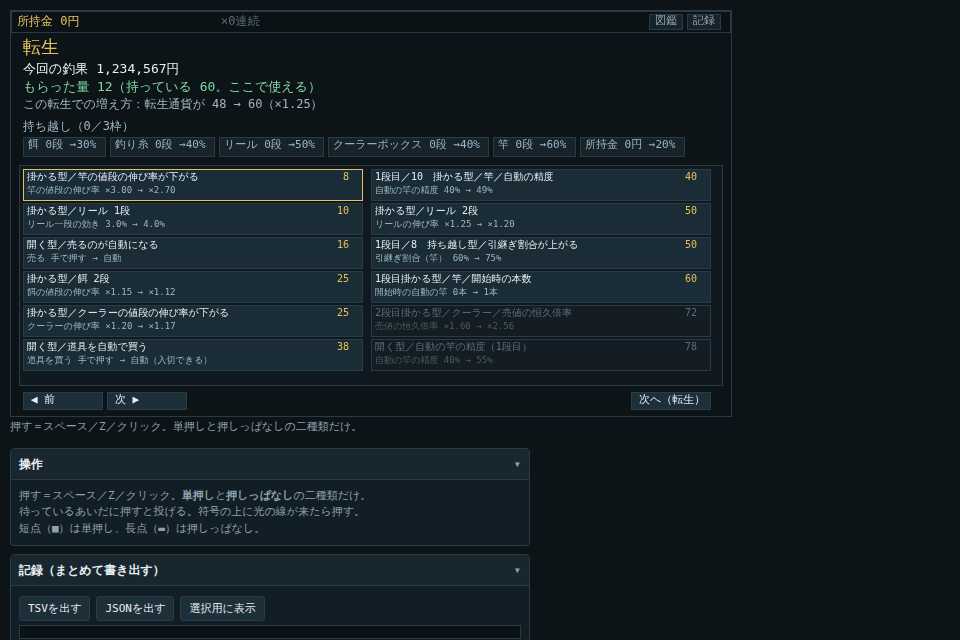
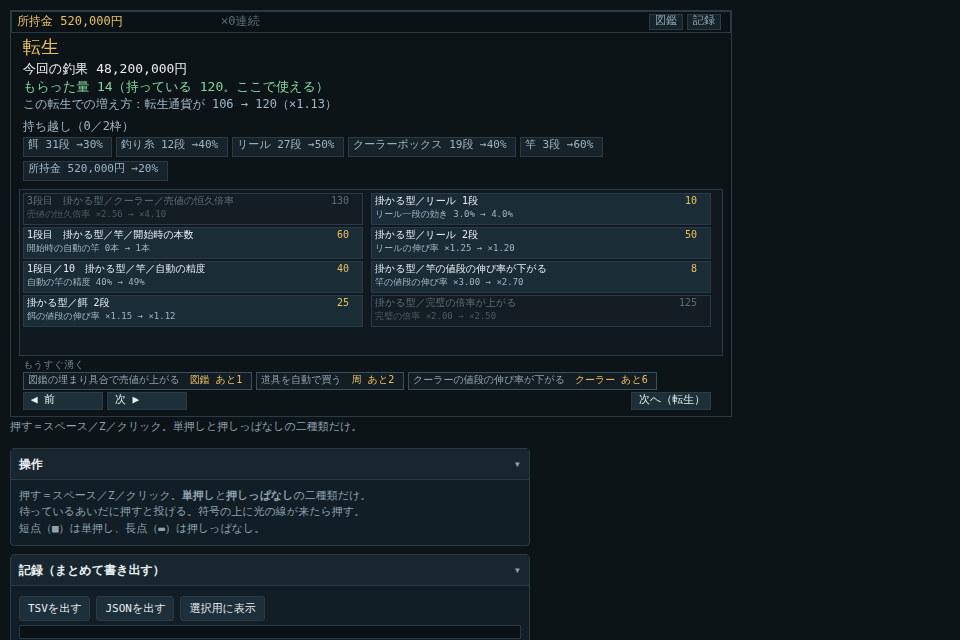
遺産をもとにパークを作り直す（湧く条件・並び・予告）
13節で「相場と食い違っている」と出したところを、相場のほうに合わせた。

- パークが値段だけで開くのをやめた。数え上げの軸で湧く（周・道具の段数・
  自動の竿の本数・図鑑の種類・通しの最高連続・通しの超大物）。相場は
  Cookie Clicker の「所持数で段階的に湧く」で、「25個買え」は上限ではなく
  次の褒美の位置。図鑑という軸が在るのに褒美が繋がっていなかった
- 「値段の順＝取るべき順」をやめた。並びは 湧いている → まだ湧いていない
  → 取り切った。昨日足した金色の目印は外した。相場では Optimization
  Problems が High-Value、Following Instructions は「内容ではない」
- 一覧の下に「もうすぐ湧く」を常に出す。予告が二ページ目に隠れていたら
  予告ではない
- 持ち越しの帯が画面の端で切れていたのを折り返すようにした

梯子の一段目を5に置いたら初回の転生で0個になり friction-check が落ちた。
Cookie Clicker の Tier 1 は「Own 1」で、読み違えていた。1に直した。

9章の決を二つ変えることになるが、仕様書はまだ直していない（open.md 14節に案）。

Claude-Session: https://claude.ai/code/session_01FWfDWPPf3eFfUKrHUiB2gN

diff --git a/decisions.md b/decisions.md
@@ -903,3 +903,26 @@
 - 理由：（2 上位の決定から導ける）9章「一覧そのものが『次に取るもの』を助言する」。
   値段の安い順＝取るべき順、と決めてあるのに、**目印が無かった**
 - 変更：安い。枠の色一つ
+
+### パークは値段だけで開かない。数え上げの軸で湧く
+- 画面：**転生の画面に「図鑑 あと1」「周 あと2」と出る行がある。**
+  湧いていないパークは暗く、値段の代わりに「あと◯」が出る
+- 理由：（1 調べれば決まる）Cookie Clicker はアップグレードが「所持数」で湧く
+  （1/5/25/50/100/150/200）。**「25個買え」は上限ではなく、次の褒美の位置として働く**
+  （`gamedev/templates/sheets/genre/incremental.md` 00「新しいものが順に出てくるか」）。
+  **図鑑という数え上げの軸が在るのに、褒美が一つも繋がっていなかった**
+- 変更：**しきい値は安い（つまみ）。軸の割り当ては高い。**逆算のときに動く
+
+### 取るべき順を、一覧の側で教えない
+- 画面：**金色の「次はこれ」の枠が消えた。**並びは 湧いている → まだ湧いていない → 取り切った
+- 理由：（1 調べれば決まる）正典8本の共通項では **Optimization Problems が High-Value**、
+  **Following Instructions（攻略どおりの一本道）は「内容ではない」**と名指しされている
+  （The Paper Pilot, Guide to Incrementals）。
+  **9章の「値段の順＝取るべき順」は、選ぶことを設計から取り除いていた**
+- 変更：安い。並べ方だけ。**ただし9章の決を書き換える必要がある（承認待ち）**
+
+### 「もうすぐ湧く」を一覧の下に常に出す
+- 画面：一覧の下に細い帯。**近いもの4件が、めくらなくても見える**
+- 理由：（2 上位の決定から導ける）上の「次の褒美の位置」を出すと決めたが、
+  **予告が二ページ目に隠れていたら予告ではない**
+- 変更：安い。件数はつまみ（10章12 `nearShow`）

diff --git a/builds/README.md b/builds/README.md
@@ -37,7 +37,10 @@
   **「比べるまでもなく甲のほうがいい」と、これも捨てられた版**
 - `2026-08-20-beat.html` … 原因が分かった版。**拍が一度も鳴っていなかった**
   （カウントインの音が宣言だけで呼ばれていない）。カウントインの音を実装
-- `2026-08-21-perks-spec.html` … **いま触ってもらう版。**パークを 10章10 に合わせて
+- `2026-08-21-perks-unlock.html` … **いま触ってもらう版。**遺産をもとに作り直した。
+  **パークが値段だけで開かなくなり、数え上げの軸（周・道具の段数・図鑑・連続・超大物）で湧く。**
+  「値段の順＝取るべき順」をやめ、金色の目印を外した。一覧の下に「もうすぐ湧く」
+- `2026-08-21-perks-spec.html` … パークを 10章10 に合わせて
   組み直した。**無限段が買えるようになった**（それまで一度も買えなかった）。
   竿の精度10段、もう逃さない、持ち越しは枠5段＋引継ぎ割合8段＋所持金の枠。
   **値段はまだ逆算していない**ので、周の数と通しの時間は目標から外れている
